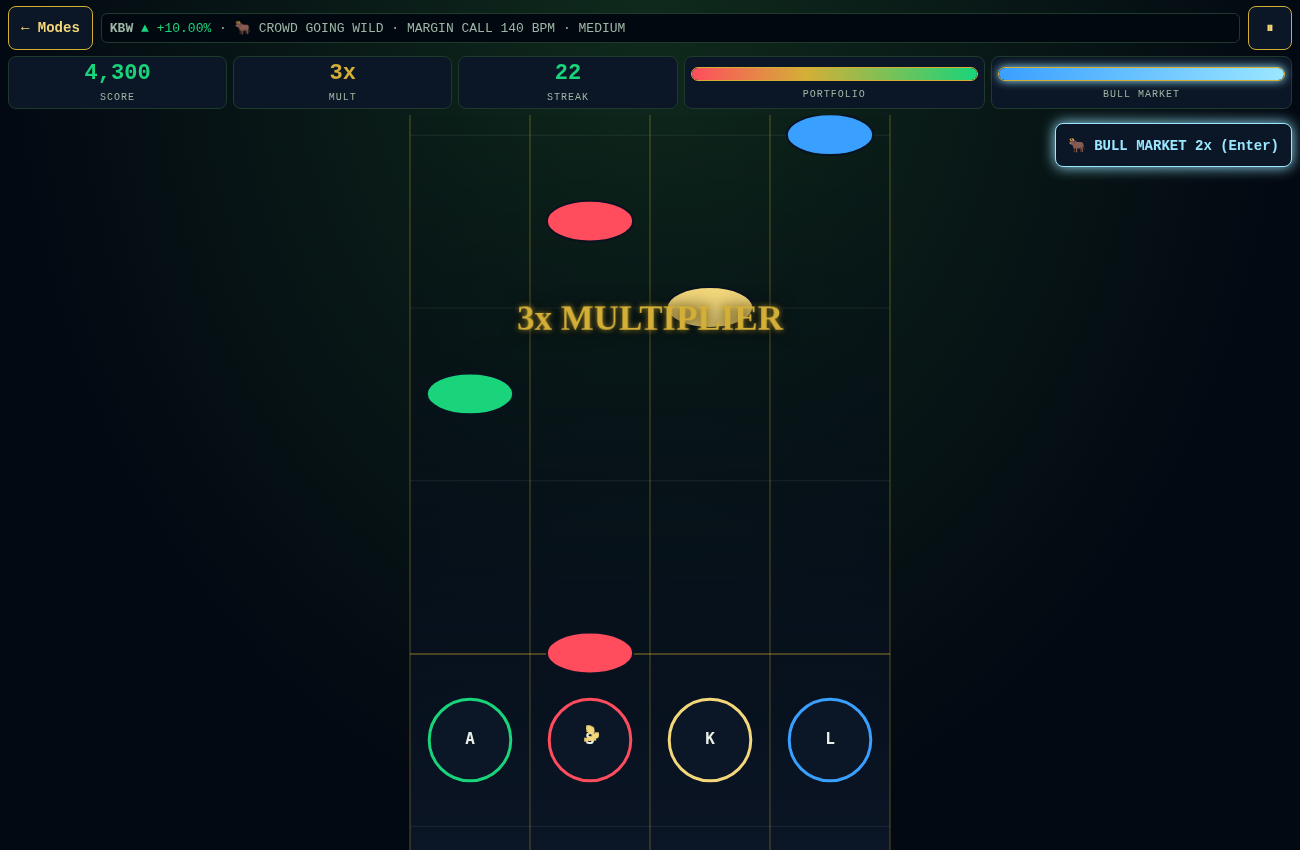
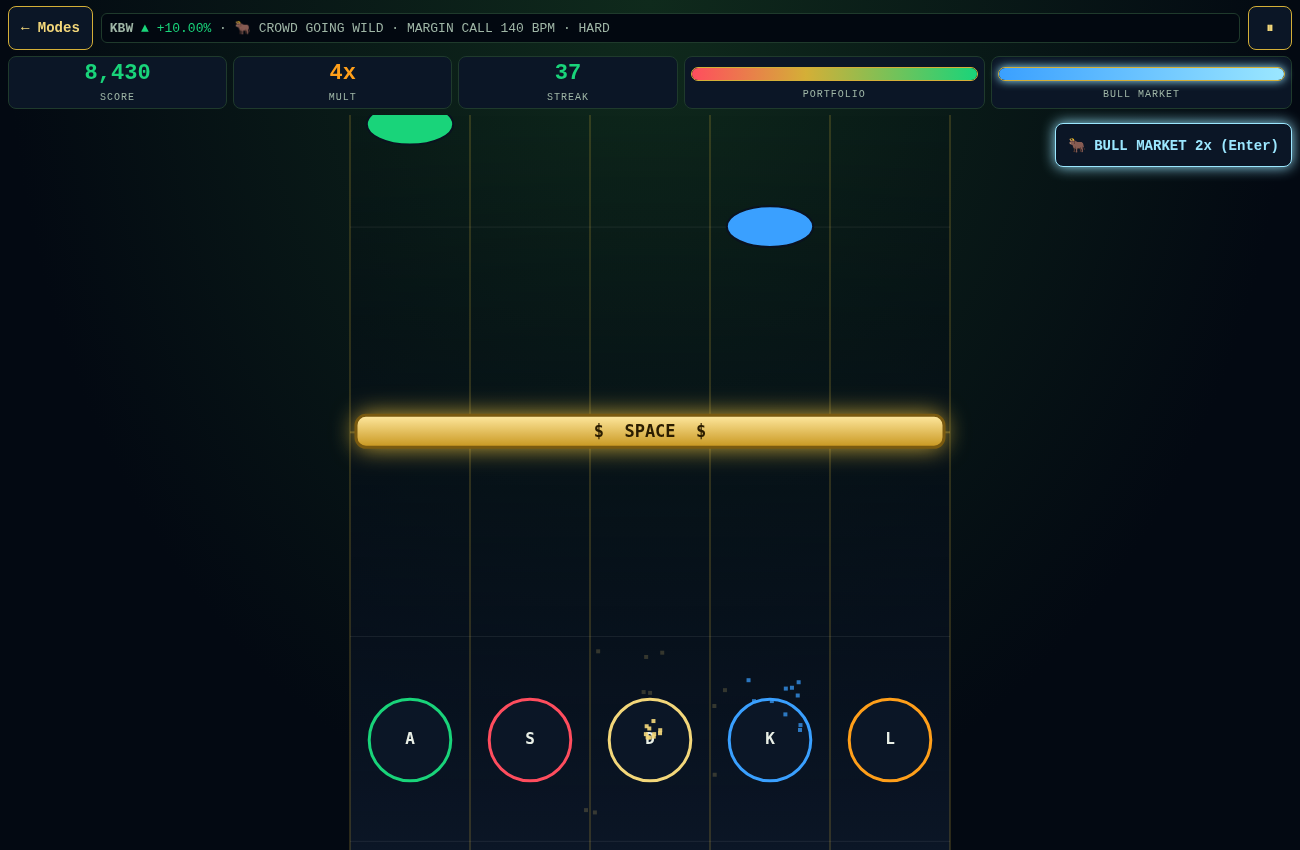
Keyboard Hero: player part — hits play the charted melody/drum layers quantized to the beat; melody muted in backing; $ drop hit (crash+chord stab+808+tuned ka-ching)

diff --git a/index.html b/index.html
@@ -1052,10 +1052,11 @@ function genChart(ti,di){const T=TRACKS[ti],D=DIFFS[di],r=rng32(T.seed*10+di),sp
    else lane=Math.max(0,Math.min(n-1,prev+Math.floor(r()*3)-1));
    lane=Math.max(0,Math.min(n-1,lane));if(!on8&&lane===prev)lane=(lane+1)%n;prev=lane;
    const t=(step+(st%2?T.swing:0))*s16; // swung 16ths: the note lands exactly where the swung drum hit is
+   const meta={part:kind,step,m:kind==='l'?E.lead.m:0,dur:kind==='l'?E.lead.len*s16:0};
    const sus=kind==='l'?E.lead.len:kind==='k'&&E.bass?E.bass.len:kind==='c'?E.chord.len:0;
-   if(onBeat&&st<=8&&sus>=4&&r()<PH*2){const beats=Math.min(2,Math.floor(sus/4));notes.push({t,lane,len:beats*spb,star,id:notes.length});blockUntil=step+beats*4+2;continue}
-   if(on8&&PC&&(kind==='s'||(kind==='k'&&onBeat)||E.crash)&&r()<PC){const k=(di===3&&r()<.35)?3:2,ls=new Set([lane]);while(ls.size<k)ls.add(Math.floor(r()*n));cid++;[...ls].sort().forEach(l=>notes.push({t,lane:l,len:0,star,chord:cid,id:notes.length}));blockUntil=step+2;continue}
-   notes.push({t,lane,len:0,star,id:notes.length})}}
+   if(onBeat&&st<=8&&sus>=4&&r()<PH*2){const beats=Math.min(2,Math.floor(sus/4));notes.push({t,lane,len:beats*spb,star,id:notes.length,...meta});blockUntil=step+beats*4+2;continue}
+   if(on8&&PC&&(kind==='s'||(kind==='k'&&onBeat)||E.crash)&&r()<PC){const k=(di===3&&r()<.35)?3:2,ls=new Set([lane]);while(ls.size<k)ls.add(Math.floor(r()*n));cid++;[...ls].sort().forEach(l=>notes.push({t,lane:l,len:0,star,chord:cid,id:notes.length,...meta}));blockUntil=step+2;continue}
+   notes.push({t,lane,len:0,star,id:notes.length,...meta})}}
  notes.forEach(x=>{x.j=null});
  return{notes,phrases,spb,len:T.bars*16*s16,lanes:n}}
 
@@ -1118,18 +1119,19 @@ function mkBus(c){const B={ctx:c};
  const glue=c.createDynamicsCompressor();glue.threshold.value=-18;glue.knee.value=8;glue.ratio.value=3;glue.attack.value=.015;glue.release.value=.2;
  const mk=gn(c,1);glue.connect(mk);mk.connect(lim);
  B.music=gn(c,vol);B.tone=filt(c,'lowpass',20000,.5);B.music.connect(B.tone);B.tone.connect(glue);B.base=20000;
- B.sfx=gn(c,.9);B.sfx.connect(lim); // hit/miss/$$$ SFX skip the glue comp so they sit on top of the beat
+ B.sfx=gn(c,.9);B.sfx.connect(lim);B.play=gn(c,1);B.play.connect(lim); // player part: on top of the beat, still limited
+ // hit/miss/$$$ SFX skip the glue comp so they sit on top of the beat
  B.ir=impulse(c,2.4,.55);return B}
 const STY={
  trap:{kick:'kickT',snare:'snareT',kv:.8,sv:.5,cv:.55,rv:.3,hv:.2,ov:.17,bv:.17,sverb:.22,duck:.45,bassLP:5000,tone:20000,verb:.32,dly:.28,rsv:.16,crash:.32,strum:0,
   keys:(R,t,v,d,vel)=>v.forEach((m,i)=>padSaw(R,t,m,d,.03*vel,(i%2?.3:-.3))),lead:(R,t,m,d,v)=>bell(R,t,m,d,v,3.5,.55),lv:.17},
  boom:{kick:'kickB',snare:'snareB',kv:.9,sv:.6,cv:.3,rv:.3,hv:.22,ov:.16,bv:.16,sverb:.12,duck:.65,bassLP:650,tone:20000,verb:.24,dly:.18,rsv:.1,crash:.18,vinyl:.07,
-  keys:(R,t,v,d,vel)=>v.forEach((m,i)=>ep(R,t+i*.006,m,d,.11*vel,(i-1.5)*.15)),lead:(R,t,m,d,v)=>bell(R,t,m,d,v,4,.45),lv:.14},
+  keys:(R,t,v,d,vel)=>v.forEach((m,i)=>ep(R,t+i*.006,m,d,.11*vel,(i-1.5)*.15)),lead:(R,t,m,d,v)=>vox(R,t,m,d,v),lv:.4},
  lofi:{kick:'kickL',snare:'snareL',kv:1,sv:.45,cv:.3,rv:.42,hv:.17,ov:.12,bv:.16,sverb:.25,duck:.7,bassLP:420,tone:6500,verb:.34,dly:.22,rsv:.08,crash:.07,vinyl:.1,wob:1,
-  keys:(R,t,v,d,vel)=>v.forEach((m,i)=>ep(R,t+i*.022,m,d,.11*vel,(i-1.5)*.2)),lead:(R,t,m,d,v)=>pluckFM(R,t,m,d,v),lv:.15}};
+  keys:(R,t,v,d,vel)=>v.forEach((m,i)=>ep(R,t+i*.022,m,d,.11*vel,(i-1.5)*.2)),lead:(R,t,m,d,v)=>ep(R,t,m,Math.max(d,.35),v,-.1),lv:.11}};
 /* per-round bus: everything for one song hangs off R.g so a restart/quit can cut the old song instantly */
 function mkRun(B,T,t0){const c=B.ctx,X=STY[T.style],R={ctx:c,T,X,nodes:[],B};R.g=gn(c,1);R.g.connect(B.music);
- R.drums=gn(c,.5);R.drums.connect(R.g);
+ R.drums=gn(c,.5);R.drums.connect(R.g);R.pl=gn(c,1);R.pl.connect(B.play);
  const blp=filt(c,'lowpass',X.bassLP,.7);R.bass=gn(c,1);R.bass.connect(blp);blp.connect(R.g);
  R.duck=gn(c,1);R.duck.connect(R.g);R.sweep=filt(c,'lowpass',16000,.8);R.sweep.connect(R.duck);
  R.verb=c.createConvolver();R.verb.buffer=B.ir;const vr=gn(c,X.verb);R.verb.connect(vr);vr.connect(R.duck);
@@ -1138,8 +1140,8 @@ function mkRun(B,T,t0){const c=B.ctx,X=STY[T.style],R={ctx:c,T,X,nodes:[],B};R.g
  if(X.vinyl&&SMP){const s=c.createBufferSource();s.buffer=SMP.crackle;s.loop=true;const g=gn(c,X.vinyl);s.connect(g);g.connect(R.g);s.start(t0);R.nodes.push(s)}
  if(X.wob){const o=c.createOscillator();o.frequency.value=.5;const g=gn(c,11);o.connect(g);R.wob=g;o.start(t0);R.nodes.push(o)}
  return R}
-function stopRun(R,tau=.03){if(!R||R.stopped)return;R.stopped=true;const c=R.ctx,t=c.currentTime;try{R.g.gain.cancelScheduledValues(t);R.g.gain.setTargetAtTime(0,t,tau)}catch(e){}
- setTimeout(()=>{R.nodes.forEach(n=>{try{n.stop()}catch(e){}});try{R.g.disconnect()}catch(e){}},Math.max(400,tau*8000))}
+function stopRun(R,tau=.03){if(!R||R.stopped)return;R.stopped=true;const c=R.ctx,t=c.currentTime;try{[R.g,R.pl].forEach(x=>{x.gain.cancelScheduledValues(t);x.gain.setTargetAtTime(0,t,tau)})}catch(e){}
+ setTimeout(()=>{R.nodes.forEach(n=>{try{n.stop()}catch(e){}});try{R.g.disconnect();R.pl.disconnect()}catch(e){}},Math.max(400,tau*8000))}
 const panTo=(R,node,p)=>{if(!p||!R.ctx.createStereoPanner)return node;const s=R.ctx.createStereoPanner();s.pan.value=p;node.connect(s);return s};
 const send=(R,node,amt,to)=>{if(amt>0){const g=gn(R.ctx,amt);node.connect(g);g.connect(to||R.verb)}};
 function hit(R,name,t,vel,o={}){const b=SMP&&SMP[name];if(!b||vel<=0)return;const c=R.ctx,s=c.createBufferSource(),g=gn(c,vel);s.buffer=b;if(o.rate)s.playbackRate.value=o.rate;s.connect(g);
@@ -1155,19 +1157,49 @@ function padSaw(R,t,m,dur,vel,pn){const c=R.ctx,f=mtof(m),lp=filt(c,'lowpass',70
  [-9,0,9].forEach(dt=>{const o=c.createOscillator();o.type='sawtooth';o.frequency.value=f;o.detune.value=dt;o.connect(lp);o.start(t);o.stop(t+dur+.8)});
  g.gain.setValueAtTime(0,t);g.gain.linearRampToValueAtTime(vel,t+Math.min(.2,dur*.25));g.gain.setValueAtTime(vel,t+dur);g.gain.linearRampToValueAtTime(0,t+dur+.6);
  lp.connect(g);const o=panTo(R,g,pn);o.connect(R.sweep);send(R,o,.45)}
-function ep(R,t,m,dur,vel,pn){const c=R.ctx,f=mtof(m),car=c.createOscillator(),mod=c.createOscillator(),mg=gn(c,0),tine=c.createOscillator(),tg=gn(c,0),g=gn(c,0);
+function ep(R,t,m,dur,vel,pn,dest){const c=R.ctx,f=mtof(m),car=c.createOscillator(),mod=c.createOscillator(),mg=gn(c,0),tine=c.createOscillator(),tg=gn(c,0),g=gn(c,0);
  car.frequency.value=f;mod.frequency.value=f;mg.gain.setValueAtTime(f*2,t);mg.gain.setTargetAtTime(f*.3,t,.22);mod.connect(mg);mg.connect(car.frequency);
  tine.frequency.value=f*14;tg.gain.setValueAtTime(f*1.1,t);tg.gain.setTargetAtTime(0,t,.012);tine.connect(tg);tg.connect(car.frequency);
  if(R.wob){R.wob.connect(car.detune)}
  g.gain.setValueAtTime(0,t);g.gain.linearRampToValueAtTime(vel,t+.004);g.gain.setTargetAtTime(vel*.35,t+.006,.55);g.gain.setTargetAtTime(0,t+dur,.12);
- car.connect(g);const o=panTo(R,g,pn);o.connect(R.sweep);send(R,o,.35);[car,mod,tine].forEach(x=>{x.start(t);x.stop(t+dur+1)})}
-function bell(R,t,m,dur,vel,ratio,tau){const c=R.ctx,f=mtof(m),car=c.createOscillator(),mod=c.createOscillator(),mg=gn(c,0),g=gn(c,0),rel=Math.max(dur,.25);
+ car.connect(g);const o=panTo(R,g,pn);o.connect(dest||R.sweep);send(R,o,.35);[car,mod,tine].forEach(x=>{x.start(t);x.stop(t+dur+1)});return g}
+function bell(R,t,m,dur,vel,ratio,tau,dest){const c=R.ctx,f=mtof(m),car=c.createOscillator(),mod=c.createOscillator(),mg=gn(c,0),g=gn(c,0),rel=Math.max(dur,.25);
  car.frequency.value=f;mod.frequency.value=f*ratio;mg.gain.setValueAtTime(f*2.2,t);mg.gain.setTargetAtTime(f*.15,t,.12);mod.connect(mg);mg.connect(car.frequency);
  g.gain.setValueAtTime(0,t);g.gain.linearRampToValueAtTime(vel,t+.003);g.gain.setTargetAtTime(0,t+.004,tau);g.gain.setTargetAtTime(0,t+rel,.1);
- car.connect(g);const o=panTo(R,g,.12);o.connect(R.sweep);send(R,o,.5);send(R,o,.4,R.dly);[car,mod].forEach(x=>{x.start(t);x.stop(t+rel+1)})}
-function pluckFM(R,t,m,dur,vel){const c=R.ctx,f=mtof(m),car=c.createOscillator(),mod=c.createOscillator(),mg=gn(c,0),lp=filt(c,'lowpass',2600),g=gn(c,0);car.type='triangle';
+ car.connect(g);const o=panTo(R,g,.12);o.connect(dest||R.sweep);send(R,o,.5);send(R,o,.4,R.dly);[car,mod].forEach(x=>{x.start(t);x.stop(t+rel+1)});return g}
+function pluckFM(R,t,m,dur,vel,dest){const c=R.ctx,f=mtof(m),car=c.createOscillator(),mod=c.createOscillator(),mg=gn(c,0),lp=filt(c,'lowpass',2600),g=gn(c,0);car.type='triangle';
  car.frequency.value=f;mod.frequency.value=f*2;mg.gain.setValueAtTime(f*1.4,t);mg.gain.setTargetAtTime(0,t,.06);mod.connect(mg);mg.connect(car.frequency);if(R.wob)R.wob.connect(car.detune);
- g.gain.setValueAtTime(0,t);g.gain.linearRampToValueAtTime(vel,t+.004);g.gain.setTargetAtTime(0,t+.005,.32);car.connect(lp);lp.connect(g);const o=panTo(R,g,-.15);o.connect(R.sweep);send(R,o,.5);send(R,o,.3,R.dly);[car,mod].forEach(x=>{x.start(t);x.stop(t+dur+1.5)})}
+ g.gain.setValueAtTime(0,t);g.gain.linearRampToValueAtTime(vel,t+.004);g.gain.setTargetAtTime(0,t+.005,.32);car.connect(lp);lp.connect(g);const o=panTo(R,g,-.15);o.connect(dest||R.sweep);send(R,o,.5);send(R,o,.3,R.dly);[car,mod].forEach(x=>{x.start(t);x.stop(t+dur+1.5)});return g}
+function vox(R,t,m,dur,vel,dest){const c=R.ctx,f=mtof(m),o=c.createOscillator(),o2=c.createOscillator(),g=gn(c,0),mix=gn(c,1),len=Math.max(.14,dur*.92);o.type=o2.type='sawtooth';o.frequency.value=f;o2.frequency.value=f;o2.detune.value=8;
+ const vib=c.createOscillator(),vg=gn(c,0);vib.frequency.value=5.2;vg.gain.setValueAtTime(0,t);vg.gain.linearRampToValueAtTime(12,t+.3);vib.connect(vg);vg.connect(o.detune);vg.connect(o2.detune);o.connect(mix);o2.connect(mix);
+ [[730,7,1],[1090,9,.55],[2440,11,.25]].forEach(([F,Q,a])=>{const bp=filt(c,'bandpass',F*.85,Q),ag=gn(c,a);bp.frequency.setValueAtTime(F*.8,t);bp.frequency.linearRampToValueAtTime(F,t+.07);mix.connect(bp);bp.connect(ag);ag.connect(g)}); // "oh→ah" formants = chopped vocal
+ g.gain.setValueAtTime(0,t);g.gain.linearRampToValueAtTime(vel,t+.01);g.gain.setValueAtTime(vel*.85,t+len-.03);g.gain.linearRampToValueAtTime(0,t+len);
+ const out=panTo(R,g,.08);out.connect(dest||R.sweep);send(R,out,.35);send(R,out,.25,R.dly);[o,o2,vib].forEach(x=>{x.start(t);x.stop(t+len+.05)});return g}
+/* ---- PLAYER PART: charted melody notes are muted in the backing and only sound when hit; drum-lane hits add a matching
+ * drum layer + a chord tone. Every trigger is quantized to the note's beat time on the audio clock. ---- */
+const PART={
+ trap:{lead:(R,t,m,d,v)=>bell(R,t,m,d,v,3.5,.55,R.pl),lv:.27,tone:(R,t,m,v,d)=>bell(R,t,m,d,v,2,.22,R.pl),tv:.14,kick:'kickT',kl:.24,snare:'clap',sl:.26,sub:.16,
+  stab:(R,t,v,d,vel)=>v.forEach((m,i)=>bell(R,t+i*.003,m,d,vel,2,.5,R.pl)) ,stv:.09},
+ boom:{lead:(R,t,m,d,v)=>vox(R,t,m,d,v,R.pl),lv:.62,tone:(R,t,m,v,d)=>ep(R,t,m,d,v,0,R.pl),tv:.2,kick:'kickB',kl:.22,snare:'snareB',sl:.2,sub:0,
+  stab:(R,t,v,d,vel)=>v.forEach((m,i)=>ep(R,t+i*.005,m,d,vel,(i-2)*.12,R.pl)) ,stv:.1},
+ lofi:{lead:(R,t,m,d,v)=>ep(R,t,m,Math.max(d,.35),v,-.1,R.pl),lv:.26,tone:(R,t,m,v,d)=>ep(R,t,m,d,v,.1,R.pl),tv:.18,kick:'kickL',kl:.18,snare:'rim',sl:.26,sub:0,
+  stab:(R,t,v,d,vel)=>v.forEach((m,i)=>ep(R,t+i*.02,m,d,vel,(i-2)*.15,R.pl)) ,stv:.09}};
+function playPart(R,T,n,A,first){if(!R||R.stopped)return null;const P=PART[T.style],ch=T.chords[Math.floor(n.step/16)%4],v=ch.v,L=n.lane,hold=n.len||0;
+ if(n.part==='l')return P.lead(R,A,n.m,Math.max(n.dur,hold),P.lv);
+ if(n.part==='k'){if(first){hit(R,P.kick,A,P.kl,{dest:R.pl});if(P.sub)sub(R,A,ch.b+12,.22,P.sub)}return P.tone(R,A,v[L%2],P.tv,Math.max(.3,hold))}
+ if(n.part==='s'){if(first)hit(R,P.snare,A+.002,P.sl,{dest:R.pl,verb:.2,pan:-.05});return P.tone(R,A,v[2+L%2]+12,P.tv,Math.max(.25,hold))}
+ return P.tone(R,A,v[L%v.length]+12,P.tv*(n.part==='h'?.7:1),Math.max(n.part==='h'?.15:.3,hold))}
+function sub(R,t,m,dur,vel){const b=SMP&&SMP.b808;if(!b)return;const c=R.ctx,s=c.createBufferSource(),g=gn(c,0);s.buffer=b;s.playbackRate.value=Math.pow(2,(m-36)/12);
+ g.gain.setValueAtTime(0,t);g.gain.linearRampToValueAtTime(vel,t+.004);g.gain.setValueAtTime(vel,t+dur);g.gain.setTargetAtTime(0,t+dur,.05);s.connect(g);g.connect(R.pl);s.start(t);s.stop(t+dur+.4)}
+function kaching(c,dest,t,ch,vel=.06){ch.v.forEach((m,i)=>{const d=i>1?.07:0,f=mtof(m+24),o=c.createOscillator(),md=c.createOscillator(),mg=gn(c,0),g=gn(c,0);o.frequency.value=f;md.frequency.value=f*2.76;
+  mg.gain.setValueAtTime(f*1.1,t+d);mg.gain.setTargetAtTime(0,t+d,.07);md.connect(mg);mg.connect(o.frequency);g.gain.setValueAtTime(0,t+d);g.gain.linearRampToValueAtTime(vel,t+d+.003);g.gain.setTargetAtTime(0,t+d+.004,.3);
+  o.connect(g);g.connect(dest);[o,md].forEach(x=>{x.start(t+d);x.stop(t+d+1.6)})});
+ if(SMP)[0,.045,.09,.16].forEach((d,i)=>{const s=c.createBufferSource(),g=gn(c,i?.16:.26);s.buffer=SMP[i?'hat':'rim'];s.playbackRate.value=i?1.25:1;s.connect(g);g.connect(dest);s.start(t+d)})}
+function playDrop(R,T,bar,A){if(!R||R.stopped)return;const P=PART[T.style],ch=T.chords[bar%4];hit(R,'crash',A,.26,{dest:R.pl,pan:.25,verb:.3});
+ P.stab(R,A,[...ch.v,ch.v[0]+12,ch.v[2]+12],R.T.bpm>100?1.2:1.6,P.stv);sub(R,A,ch.b,.9,.3);kaching(R.ctx,R.pl,A+.03,ch,.045)}
+function missFx(B,t){const c=B.ctx,fq=B.tone.frequency;fq.cancelScheduledValues(t);fq.setTargetAtTime(650,t,.012);fq.setTargetAtTime(B.base,t+.2,.08); // muffle the beat briefly
+ if(SMP){const s=c.createBufferSource(),bp=filt(c,'bandpass',1800,5),g=gn(c,0);s.buffer=SMP.noise;bp.frequency.setValueAtTime(2200,t);bp.frequency.exponentialRampToValueAtTime(320,t+.13); // record scratch
+  g.gain.setValueAtTime(0,t);g.gain.linearRampToValueAtTime(.5,t+.01);g.gain.setTargetAtTime(0,t+.06,.04);s.connect(bp);bp.connect(g);g.connect(B.sfx);s.start(t,(t*3.1)%1.5);s.stop(t+.3)}}
 function riser(R,t,dur){const b=SMP&&SMP.noise;if(!b)return;const c=R.ctx,s=c.createBufferSource(),bp=filt(c,'bandpass',300,1.4),g=gn(c,0),e=t+dur*.75;s.buffer=b;s.loop=true;
  bp.frequency.setValueAtTime(300,t);bp.frequency.exponentialRampToValueAtTime(7500,e);g.gain.setValueAtTime(0,t);g.gain.linearRampToValueAtTime(R.X.rsv,e-.01);g.gain.linearRampToValueAtTime(0,e+.01);
  s.connect(bp);bp.connect(g);g.connect(R.drums);send(R,g,.6);s.start(t);s.stop(e+.05)}
@@ -1183,11 +1215,17 @@ function playStep(R,T,step,t){const bar=Math.floor(step/16),st=step%16;if(bar>=T
  if(E.open)hit(R,'open',tt,E.open*X.ov,{pan:.28,verb:.12});
  if(E.bass)bass808(R,tt,E.bass.m,E.bass.len*s16*.97,E.bass.from,X.bv);
  if(E.chord)X.keys(R,tt,E.chord.v,E.chord.len*s16,E.chord.vel);
- if(E.lead)X.lead(R,tt,E.lead.m,E.lead.len*s16,X.lv*(.85+.3*h));
- if(E.counter)X.lead(R,tt+.01,E.counter.m,E.counter.len*s16,X.lv*.4)}
+ const own=R.mute&&R.mute.has(step);
+ if(E.lead&&!own)X.lead(R,tt,E.lead.m,E.lead.len*s16,X.lv*(.85+.3*h));
+ if(E.counter&&!own)X.lead(R,tt+.01,E.counter.m,E.counter.len*s16,X.lv*.4)}
 /* offline render of a beat (used to export demo WAVs; same code path as the game) */
-async function renderDemo(ti,secs=26,fromBar=0){await prepare();const T=TRACKS[ti],sr=44100,c=new OAC(2,Math.ceil(sr*secs),sr),B=mkBus(c),R=mkRun(B,T,0),s16=60/T.bpm/4;
- if(window.KW_SOLO){const k=window.KW_SOLO;if(k!=='drums')R.drums.gain.value=0;if(k==='raw'){R.drums.gain.value=.5};if(k!=='bass')R.bass.gain.value=0;if(k!=='keys')R.duck.gain.value=0;if(k==='keys')R.duck.gain.value=1}
+async function renderDemo(ti,secs=26,fromBar=0,opt={}){await prepare();const T=TRACKS[ti],sr=44100,c=new OAC(2,Math.ceil(sr*secs),sr),B=mkBus(c),R=mkRun(B,T,0),s16=60/T.bpm/4;
+ if(window.KW_SOLO==='player')R.g.gain.value=0;else if(window.KW_SOLO==='backing')R.pl.gain.value=0;else if(window.KW_SOLO){const k=window.KW_SOLO;if(k!=='drums')R.drums.gain.value=0;if(k==='raw'){R.drums.gain.value=.5};if(k!=='bass')R.bass.gain.value=0;if(k!=='keys')R.duck.gain.value=0;if(k==='keys')R.duck.gain.value=1}
+ const o0=.05-fromBar*16*s16,inWin=t=>t+o0>=0&&t+o0<secs-1.6;
+ if(opt.played){const c2=genChart(ti,opt.di==null?2:opt.di),fired={};R.mute=new Set(c2.notes.filter(n=>n.part==='l').map(n=>n.step));
+  for(const n of c2.notes){if(!inWin(n.t))continue;if(opt.played==='some'&&hash(n.id,ti,9)<.22){missFx(B,n.t+o0+.12);continue} // simulated misses: muffle + scratch, melody note left out
+   const first=!n.chord||!fired[n.chord];if(n.chord)fired[n.chord]=1;playPart(R,T,n,n.t+o0,first)}
+  for(const p of c2.phrases)if(inWin(p.t))playDrop(R,T,Math.round(p.t/(s16*16)),p.t+o0)}
  for(let k=0;k*s16<secs-.05;k++)playStep(R,T,fromBar*16+k,.05+k*s16);
  B.music.gain.setValueAtTime(vol,Math.max(0,secs-1.6));B.music.gain.linearRampToValueAtTime(0,secs-.05);
  return await new Promise((res,rej)=>{c.oncomplete=e=>res(e.renderedBuffer);const p=c.startRendering();if(p&&p.then)p.then(res,rej)})}
@@ -1195,17 +1233,12 @@ function ensureAC(){if(ac)return ac;const C=window.AudioContext||window.webkitAu
  try{if(navigator.audioSession)navigator.audioSession.type='playback'}catch(e){} // iOS: play even with the ring/silent switch on
  ac=new C({latencyHint:'interactive'});BUS=mkBus(ac);prepare();return ac}
 /* game SFX (on the SFX bus, above the beat) */
-function pluck(lane){if(!ac||!H||!H.audio||!BUS)return;const T=TRACKS[H.ti],t=ac.currentTime,bar=Math.max(0,Math.floor(now()/(H.c.spb*4))),ch=T.chords[bar%4],f=mtof(ch.v[lane%ch.v.length]+24);
- const o=ac.createOscillator(),g=gn(ac,0);o.frequency.value=f;g.gain.setValueAtTime(0,t);g.gain.linearRampToValueAtTime(.045,t+.002);g.gain.setTargetAtTime(0,t+.003,.06);o.connect(g);g.connect(BUS.sfx);o.start(t);o.stop(t+.4)}
-function buzz(){if(!ac||!BUS)return;const t=ac.currentTime,fq=BUS.tone.frequency;fq.cancelScheduledValues(t);fq.setTargetAtTime(650,t,.012);fq.setTargetAtTime(BUS.base,t+.2,.08); // muffle the beat briefly
- if(SMP){const s=ac.createBufferSource(),bp=filt(ac,'bandpass',1800,5),g=gn(ac,0);s.buffer=SMP.noise;bp.frequency.setValueAtTime(2200,t);bp.frequency.exponentialRampToValueAtTime(320,t+.13); // record scratch
-  g.gain.setValueAtTime(0,t);g.gain.linearRampToValueAtTime(.5,t+.01);g.gain.setTargetAtTime(0,t+.06,.04);s.connect(bp);bp.connect(g);g.connect(BUS.sfx);s.start(t,(t*3.1)%1.5);s.stop(t+.3)}}
-function chime(){if(!ac||!BUS)return;const t=ac.currentTime; // ka-ching
- [[2093,0],[2637,0],[3136,.07],[4186,.07]].forEach(([f,d])=>{const o=ac.createOscillator(),m=ac.createOscillator(),mg=gn(ac,0),g=gn(ac,0);o.frequency.value=f;m.frequency.value=f*2.76;
-  mg.gain.setValueAtTime(f*1.1,t+d);mg.gain.setTargetAtTime(0,t+d,.07);m.connect(mg);mg.connect(o.frequency);g.gain.setValueAtTime(0,t+d);g.gain.linearRampToValueAtTime(.075,t+d+.003);g.gain.setTargetAtTime(0,t+d+.004,.28);
-  o.connect(g);g.connect(BUS.sfx);[o,m].forEach(x=>{x.start(t+d);x.stop(t+d+1.6)})});
- if(SMP)[0,.045,.09,.16].forEach((d,i)=>{const s=ac.createBufferSource(),g=gn(ac,i?.22:.35);s.buffer=SMP[i?'hat':'rim'];s.playbackRate.value=i?1.25:1;s.connect(g);g.connect(BUS.sfx);s.start(t+d)})}
-
+function buzz(){if(ac&&BUS)missFx(BUS,ac.currentTime)}
+const live=()=>ac&&H&&H.audio&&H.R&&!H.R.stopped&&SMP;
+const beatTime=t=>Math.max(ac.currentTime+.003,H.t0+t); // early hit → wait for the beat; late hit → play now
+function partHit(n){if(!live())return null;const first=!n.chord||!H.fired[n.chord];if(n.chord)H.fired[n.chord]=1;const A=beatTime(n.t);H.lastA=A;return playPart(H.R,TRACKS[H.ti],n,A,first)}
+function dropHit(p){if(!live())return;playDrop(H.R,TRACKS[H.ti],Math.round(p.t/(H.c.spb*4)),beatTime(p.t))}
+function chime(){if(!ac||!BUS)return;const T=TRACKS[H?H.ti:0],bar=H?Math.max(0,Math.floor(now()/(H.c.spb*4))):0;kaching(ac,BUS.sfx,ac.currentTime,T.chords[bar%4])}
 /* ---- state ---- */
 let H=null,clock=()=>ac?ac.currentTime:performance.now()/1000,sel={ti:Math.max(0,TRACKS.findIndex(T=>T.id===localStorage.kwHeroTrack)),di:localStorage.kwHeroD==null?1:+localStorage.kwHeroD};
 let off=+localStorage.kwHeroOff||0,noFail=localStorage.kwHeroNF==='1',schedTimer=0,raf=0,parts=[];
@@ -1214,20 +1247,20 @@ const total=()=>H.c.notes.length;
 const mult=()=>Math.min(4,1+Math.floor(H.streak/10))*(H.starOn?2:1);
 function start(ti=sel.ti,di=sel.di,opts={}){const c=genChart(ti,di);if(H&&H.R)stopRun(H.R);if(!opts.noAudio){ensureAC();if(ac&&ac.state!=='running')ac.resume()}
  H={ti,di,c,t0:clock()+(opts.lead==null?3:opts.lead),score:0,streak:0,maxStreak:0,cnt:{perfect:0,great:0,good:0,miss:0},port:.5,star:0,starOn:false,starEnd:0,
-  hold:{},press:{},failed:false,done:false,paused:false,step:0,audio:!opts.noAudio&&!!ac,phr:0,missPtr:0,over:0};
- if(H.audio)H.R=mkRun(BUS,TRACKS[ti],H.t0);
+  hold:{},press:{},fired:{},failed:false,done:false,paused:false,step:0,audio:!opts.noAudio&&!!ac,phr:0,missPtr:0,over:0};
+ if(H.audio){H.R=mkRun(BUS,TRACKS[ti],H.t0);H.R.mute=new Set(c.notes.filter(n=>n.part==='l').map(n=>n.step))}
  ['hMenu','hPause','hRes'].forEach(id=>$(id).classList.add('hidden'));$('hero').classList.remove('starOn');
  parts=[];size();hud();if(H.audio){clearInterval(schedTimer);schedTimer=setInterval(sched,25);sched()}cancelAnimationFrame(raf);raf=requestAnimationFrame(loop);return H}
 function sched(){if(!H||H.done||H.paused||!ac||!H.R)return;const T=TRACKS[H.ti],s16=H.c.spb/4,end=H.c.len/s16;
  if(!SMP){while(H.step<end&&H.t0+H.step*s16<ac.currentTime)H.step++;return} // samples still rendering (only possible in the first ~100ms)
- if(H.R.T!==T){stopRun(H.R);H.R=mkRun(BUS,T,ac.currentTime)}
+ 
  while(H.step<end&&H.t0+H.step*s16<ac.currentTime+.15){playStep(H.R,T,H.step,Math.max(ac.currentTime,H.t0+H.step*s16));H.step++}}
 function laneOf(code){return LANEKEYS[H.c.lanes].indexOf(code)}
 function call(txt){const e=$('hCall');e.textContent=txt;e.classList.remove('go');void e.offsetWidth;e.classList.add('go')}
 function judgeHit(n,t,lane){const d=Math.abs(n.t-t),k=d<=WIN.perfect?'perfect':d<=WIN.great?'great':'good';n.j=k;H.cnt[k]++;H.streak++;H.maxStreak=Math.max(H.maxStreak,H.streak);
  H.score+=PTS[k]*mult();H.port=Math.min(1,H.port+({perfect:.03,great:.02,good:.01})[k]);
  if(n.star){H.star=Math.min(1,H.star+.125);if(H.starOn)H.starEnd+=H.c.spb*2}
- if(n.len>0)H.hold[lane]={n,t0:t};pluck(lane);spark(lane,k);
+ const voice=partHit(n);if(n.len>0)H.hold[lane]={n,t0:t,voice};spark(lane,k);
  if(H.streak%50===0)call(H.streak+' NOTE STREAK! 🐂');else if(H.streak%10===0&&H.streak<=30)call((H.streak/10+1)+'x MULTIPLIER');return k}
 function miss(n){n.j='miss';H.cnt.miss++;if(H.streak>=10)call('STREAK BROKEN 📉');H.streak=0;H.port=Math.max(0,H.port-DIFFS[H.di].drain);buzz();if(H.port<=0&&!noFail)fail()}
 function down(lane,t=now()){if(!H||H.done||H.paused)return null;H.press[lane]=t;
@@ -1236,10 +1269,10 @@ function down(lane,t=now()){if(!H||H.done||H.paused)return null;H.press[lane]=t;
  return judgeHit(best,t,lane)}
 function sustainPts(h,t){const held=Math.max(0,Math.min(t,h.n.t+h.n.len)-h.n.t);return Math.round(held/H.c.spb*25)*mult()}
 function up(lane,t=now()){if(!H)return;delete H.press[lane];const h=H.hold[lane];if(!h)return;delete H.hold[lane];H.score+=sustainPts(h,t);
- h.n.held=Math.min(1,(t-h.n.t)/h.n.len);if(t<h.n.t+h.n.len-.12)h.n.broken=true}
+ h.n.held=Math.min(1,(t-h.n.t)/h.n.len);if(t<h.n.t+h.n.len-.12){h.n.broken=true;if(h.voice&&ac){try{const g=h.voice.gain;g.cancelScheduledValues(ac.currentTime);g.setTargetAtTime(0,ac.currentTime,.04)}catch(e){}}}}
 function dollar(t=now()){if(!H||H.done||H.paused)return null;const p=H.c.phrases.find(p=>!p.j&&Math.abs(p.t-t)<=WIN.good);
  if(!p){H.port=Math.max(0,H.port-.01);buzz();return 'over'}const d=Math.abs(p.t-t),k=d<=WIN.perfect?'perfect':d<=WIN.great?'great':'good';p.j=k;H.phr++;
- H.score+=({perfect:500,great:400,good:250})[k]*mult();H.port=Math.min(1,H.port+.05);chime();coinBurst();bucks();call('BONUS +'+(({perfect:500,great:400,good:250})[k]*mult()));return k}
+ H.score+=({perfect:500,great:400,good:250})[k]*mult();H.port=Math.min(1,H.port+.05);if(live())dropHit(p);else chime();coinBurst();bucks();call('BONUS +'+(({perfect:500,great:400,good:250})[k]*mult()));return k}
 function bucks(){const e=$('hBucks');e.classList.remove('go');void e.offsetWidth;e.classList.add('go')}
 function activateStar(t=now()){if(!H||H.starOn||H.star<.5||H.done||H.paused)return false;H.starOn=true;H.starEnd=t+H.star*H.c.spb*16;$('hero').classList.add('starOn');call('🐂 BULL MARKET! 2x');chime();return true}
 function update(t){if(!H||H.done)return;const c=H.c;
@@ -1343,7 +1376,7 @@ function setup(){const c=$('hCv');
  $('hOff').oninput=e=>{off=+e.target.value;localStorage.kwHeroOff=off;$('hOffV').textContent=off};
  $('bHero').onclick=enter;if(/[?&]mode=hero/.test(location.search))enter()}
 setup();
-return{TRACKS,DIFFS,LANEKEYS,WIN,genChart,ev,prepare,renderDemo,get SMP(){return SMP},get ac(){return ac},get BUS(){return BUS},start,down,up,dollar,activateStar,update,pause,resume,menu,enter,exit,results,shareText,
+return{TRACKS,DIFFS,LANEKEYS,WIN,PART,genChart,ev,prepare,renderDemo,get SMP(){return SMP},get ac(){return ac},get BUS(){return BUS},start,down,up,dollar,activateStar,update,pause,resume,menu,enter,exit,results,shareText,
  get H(){return H},setClock(f){clock=f},get noFail(){return noFail},set noFail(v){noFail=v},now}})();
 </script>
 </body></html>

diff --git a/tools/render-music-samples.js b/tools/render-music-samples.js
@@ -3,15 +3,15 @@ const {chromium}=require('playwright');const fs=require('fs');
 p.on('pageerror',e=>errs.push(e.message));p.on('console',m=>{if(m.type()==='error'||m.type()==='warning')errs.push(m.type()+': '+m.text())});
 await p.goto('file:///workspace/keyboard-warrior/index.html');
 const prep=await p.evaluate(async()=>{const t=performance.now();await HERO.prepare();return{ms:Math.round(performance.now()-t),keys:Object.keys(HERO.SMP)}});console.log('prepare',JSON.stringify(prep));
-const secs=+(process.argv[2]||28);
-for(let ti=0;ti<3;ti++){const r=await p.evaluate(async([ti,secs])=>{const t=performance.now();const buf=await HERO.renderDemo(ti,secs,[0,4,4][ti]);const ms=performance.now()-t;
+const secs=+(process.argv[2]||28),mode=process.argv[3]||'',suf=mode==='all'?'-played':mode==='some'?'-played-with-misses':'';
+for(let ti=0;ti<3;ti++){const r=await p.evaluate(async([ti,secs,mode])=>{const t=performance.now();const buf=await HERO.renderDemo(ti,secs,[0,4,4][ti],{played:mode||null});const ms=performance.now()-t;
   const L=buf.getChannelData(0),R=buf.getChannelData(1),n=L.length;let pk=0,ss=0;const i16=new Int16Array(n*2);
   for(let i=0;i<n;i++){const a=L[i],b=R[i];pk=Math.max(pk,Math.abs(a),Math.abs(b));ss+=a*a+b*b;i16[2*i]=Math.max(-1,Math.min(1,a))*32767;i16[2*i+1]=Math.max(-1,Math.min(1,b))*32767}
   // per-second rms
   const sec=[];for(let s=0;s<Math.floor(n/44100);s++){let q=0;for(let i=s*44100;i<(s+1)*44100;i++)q+=L[i]*L[i];sec.push(Math.round(10*Math.log10(q/44100+1e-12)))}
   const u8=new Uint8Array(i16.buffer);let bin='';for(let i=0;i<u8.length;i+=0x8000)bin+=String.fromCharCode.apply(null,u8.subarray(i,i+0x8000));
-  return{name:HERO.TRACKS[ti].id,ms:Math.round(ms),peakDb:+(20*Math.log10(pk)).toFixed(2),rmsDb:+(10*Math.log10(ss/(2*n))).toFixed(2),sec:sec.join(','),b64:btoa(bin)}},[ti,secs]);
+  return{name:HERO.TRACKS[ti].id,ms:Math.round(ms),peakDb:+(20*Math.log10(pk)).toFixed(2),rmsDb:+(10*Math.log10(ss/(2*n))).toFixed(2),sec:sec.join(','),b64:btoa(bin)}},[ti,secs,mode]);
  const pcm=Buffer.from(r.b64,'base64');const hdr=Buffer.alloc(44);hdr.write('RIFF',0);hdr.writeUInt32LE(36+pcm.length,4);hdr.write('WAVE',8);hdr.write('fmt ',12);hdr.writeUInt32LE(16,16);hdr.writeUInt16LE(1,20);hdr.writeUInt16LE(2,22);hdr.writeUInt32LE(44100,24);hdr.writeUInt32LE(44100*4,28);hdr.writeUInt16LE(4,32);hdr.writeUInt16LE(16,34);hdr.write('data',36);hdr.writeUInt32LE(pcm.length,40);
- const T=['margin-call-trap-140bpm','opening-bell-boombap-90bpm','after-hours-lofi-78bpm'][ti];fs.writeFileSync(`/workspace/keyboard-warrior/music-samples/${T}.wav`,Buffer.concat([hdr,pcm]));
+ const T=['margin-call-trap-140bpm','opening-bell-boombap-90bpm','after-hours-lofi-78bpm'][ti];fs.writeFileSync(`/workspace/keyboard-warrior/music-samples/${T}${suf}.wav`,Buffer.concat([hdr,pcm]));
  delete r.b64;console.log(JSON.stringify(r))}
 console.log('ERRS',JSON.stringify(errs));await b.close()})();

diff --git a/tools/hero-live-audio-test.js b/tools/hero-live-audio-test.js
@@ -1,0 +1,20 @@
+const {chromium,webkit}=require('playwright');
+(async()=>{for(const [nm,bt] of [['chrome',()=>chromium.launch({executablePath:'/usr/bin/google-chrome',args:['--autoplay-policy=no-user-gesture-required']})],['webkit',()=>webkit.launch()]]){
+const b=await bt();const p=await b.newPage({viewport:{width:1300,height:850}});const errs=[];p.on('pageerror',e=>errs.push(e.message));p.on('console',m=>{if(m.type()==='error'&&!/Failed to load resource/.test(m.text()))errs.push(m.text())});
+await p.goto('file:///workspace/keyboard-warrior/index.html');await p.click('#bHero');await p.waitForTimeout(300);
+for(let ti=0;ti<3;ti++){
+ await p.evaluate(ti=>{HERO.noFail=true;document.querySelectorAll('#hTracks button')[ti].click();document.querySelectorAll('#hDiff button')[2].click()},ti);
+ await p.click('#hPlay');
+ // hit every note, alternating 60ms early / 50ms late; record the scheduled audio time vs the note's beat time
+ await p.evaluate(()=>{const H=HERO.H,K=HERO.LANEKEYS[H.c.lanes];window.__q=[];let i=0;const done=new Set();window.__kt=setInterval(()=>{const t=HERO.now();for(const n of H.c.notes){if(n.j||done.has(n.id))continue;const d=(i%2?.05:-.06);if(t<n.t+d)break;done.add(n.id);i++;
+   const ct=HERO.ac.currentTime,th=HERO.now();dispatchEvent(new KeyboardEvent('keydown',{code:K[n.lane],bubbles:true}));if(n.j&&n.j!=='miss')window.__q.push({early:th<n.t-.005,dA:HERO.H.lastA-(H.t0+n.t),ahead:HERO.H.lastA-ct});if(!n.len)dispatchEvent(new KeyboardEvent('keyup',{code:K[n.lane],bubbles:true}))}
+  for(const q of H.c.phrases){if(!q.j&&Math.abs(q.t-t)<.03)dispatchEvent(new KeyboardEvent('keydown',{code:'Space',bubbles:true}))}},5)});
+ await p.waitForTimeout(16000);
+ const r=await p.evaluate(()=>{clearInterval(window.__kt);const H=HERO.H,q=window.__q,E=q.filter(x=>x.early),L=q.filter(x=>!x.early);
+  return{track:HERO.TRACKS[H.ti].id,ac:HERO.ac.state,hits:q.length,parts:[...new Set(H.c.notes.filter(n=>n.j&&n.j!=='miss').map(n=>n.part))].join(''),muted:H.R.mute.size,
+   earlyOnBeat:E.every(x=>Math.abs(x.dA)<.004),earlyScheduledAheadMs:Math.round(1000*Math.min(...E.map(x=>x.ahead))),lateImmediate:L.every(x=>x.ahead<.01),cnt:H.cnt,phr:H.phr}});
+ console.log(nm,JSON.stringify(r));
+ if(nm==='chrome'&&ti===0)await p.screenshot({path:'/workspace/keyboard-warrior/screenshot-hero-desktop.png'});
+ const pr=await p.evaluate(async()=>{const R=HERO.H.R;HERO.pause();await new Promise(r=>setTimeout(r,300));const a=HERO.ac.state;HERO.resume();await new Promise(r=>setTimeout(r,2200));const b=HERO.ac.state;HERO.menu();return{paused:a,resumed:b,oldRunStopped:R.stopped}});console.log('  ',JSON.stringify(pr));
+}
+console.log(nm,'errors',JSON.stringify(errs));await b.close()}})();
